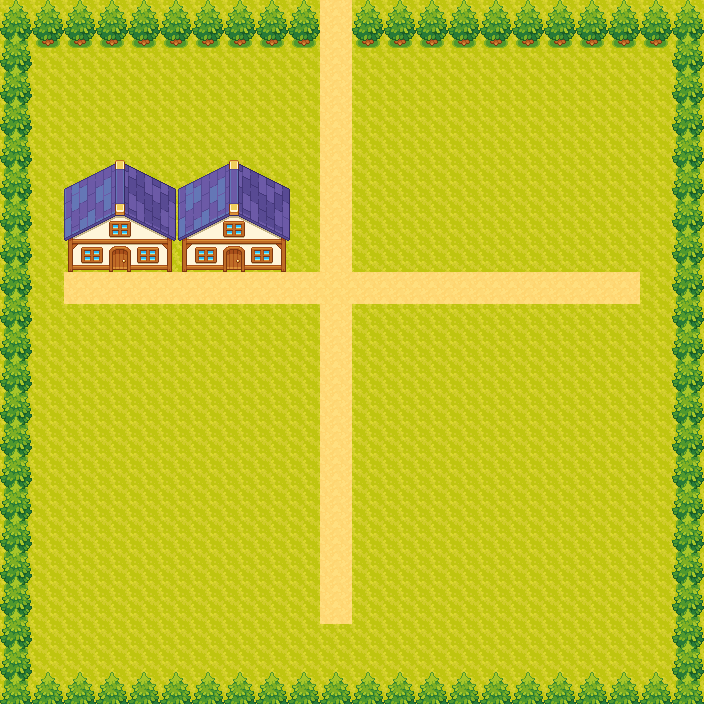
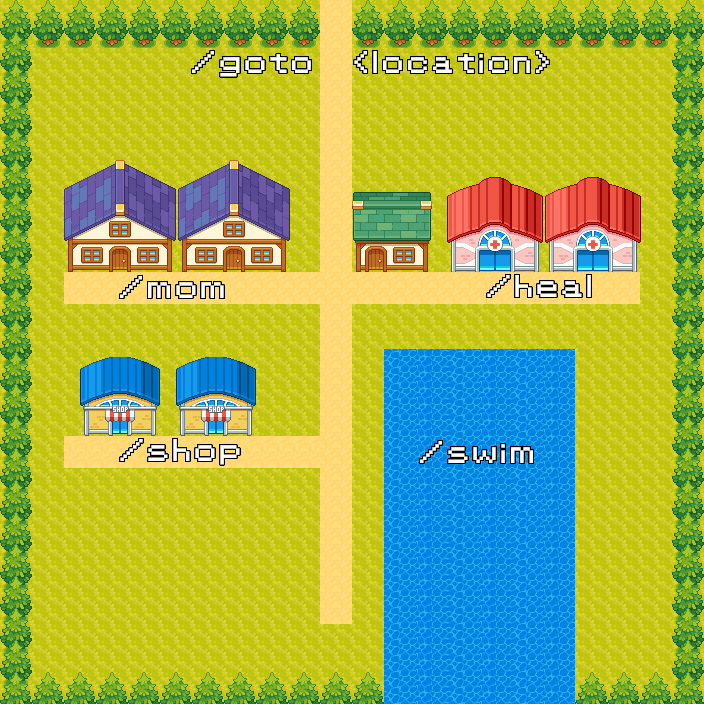
finished all starting screen

diff --git a/src/main/java/screens/StarterSelectScreen.java b/src/main/java/screens/StarterSelectScreen.java
@@ -1,0 +1,65 @@
+package screens;
+
+import backend.Pokemon;
+import backend.PokemonFactory;
+import main.GamePanel;
+import main.KeyHandler;
+
+import javax.net.ssl.KeyManager;
+import java.awt.*;
+import java.util.ArrayList;
+
+import static main.ApplicationMain.userInput;
+
+public class StarterSelectScreen extends Screen {
+    int dialogueIndex = 0;
+    boolean hint = false;
+
+    public StarterSelectScreen(GamePanel gp, KeyHandler keyH) {
+        super(gp, keyH, "/Backgrounds/PokemonSelectScreen.png");
+        dialogues[0] = "Hint:\nEvery pokemon has its own\nunique type and abilities\n\nChoose wisely~";
+    }
+
+    public void update() {
+        super.update();
+
+        long elapsedTime = System.currentTimeMillis() - startTime;
+
+        if (elapsedTime > 500) {
+            hint = true;
+        }
+
+        if (userInput.equals("/bulbasaur")) {
+            gp.player.setStarterPokemon(PokemonFactory.createPokemon("Bulbasaur"));
+            dialogues[1] = "You have chosen " + gp.player.getPokemonList().getFirst().getName()+"\n\nGood luck on your journey!\n\n                         /begin";
+            dialogueIndex++;
+        }
+        if (userInput.equals("/charmander")) {
+            gp.player.setStarterPokemon(PokemonFactory.createPokemon("Charmander"));
+            dialogues[1] = "You have chosen " + gp.player.getPokemonList().getFirst().getName()+"\n\nGood luck on your journey!\n\n                         /begin";
+            dialogueIndex++;
+        }
+        if (userInput.equals("/squirtle")) {
+            gp.player.setStarterPokemon(PokemonFactory.createPokemon("Squirtle"));
+            dialogues[1] = "You have chosen " + gp.player.getPokemonList().getFirst().getName()+"\n\nGood luck on your journey!\n\n                         /begin";
+            dialogueIndex++;
+        }
+
+
+
+
+        if (userInput.equals("/begin") && !gp.player.getPokemonList().isEmpty()) {
+            gp.stopMusic();
+            gp.currentScreen = new PalletTown(gp, keyH);
+        }
+    }
+
+    public void draw(Graphics2D g2) {
+        super.draw(g2);
+        currentDialogue = dialogues[dialogueIndex];
+
+        if (hint) {
+            drawDialogueBox(g2);
+        }
+    }
+}

diff --git a/src/main/java/screens/NewGameScreen.java b/src/main/java/screens/NewGameScreen.java
@@ -15,8 +15,7 @@ public class NewGameScreen extends Screen {
 
     public NewGameScreen(GamePanel gp, KeyHandler keyH) {
         super(gp, keyH, "/Backgrounds/WhiteScreen.png");
-        dialogues[0] = "Hey lancau";
-        dialogues[1] = "Selamat datang ke Malaysia";
+        dialogues[0] = "Hey lancau, nama u apa?\n\n\n/myname <name>";
         dialogues[2] = "Saya Professor Oak";
         dialogues[3] = "Banyak haiwan nama pokemon\nkat sini";
         dialogues[4] = "Sila tangkap semua dan\nkalahkan semua gym Leaders";
@@ -35,13 +34,27 @@ public class NewGameScreen extends Screen {
             oakTalking = true;
         }
 
+        if (dialogueIndex == 0) {
+            if (userInput.contains("/myname")) {
+                String[] name = userInput.split("");
+                StringBuilder nameBuilder = new StringBuilder();
+
+                for (int i = 8; i < name.length; i++) {
+                    nameBuilder.append(name[i]);
+                }
+
+                gp.player.setName(nameBuilder.toString());
+                dialogues[1] = "Selamat datang ke Malaysia, \n"+gp.player.getName();
+                dialogueIndex++;
+            }
+        }
+
         if (dialogueIndex == 3) {
             setBackground("/Backgrounds/ProfOakAndPokemon.png");
         }
 
-        if (dialogueIndex == 6) {
-            gp.stopMusic();
-            gp.currentScreen = new PalletTown(gp, keyH);
+        if (dialogueIndex == 5) {
+            gp.currentScreen = new StarterSelectScreen(gp, keyH);
         }
 
         if (userInput.equals("/next")) {
@@ -52,8 +65,13 @@ public class NewGameScreen extends Screen {
 
     public void draw(Graphics2D g2) {
         super.draw(g2);
+
         currentDialogue = dialogues[dialogueIndex];
-        if (!Objects.equals(currentDialogue, null) && oakTalking) {
+
+        if (dialogueIndex == 0 && oakTalking) {
+            drawDialogueBox(g2);
+        }
+        else if (!Objects.equals(currentDialogue, null) && oakTalking) {
             drawDialogueScreen(g2);
         }
     }

diff --git a/src/main/java/screens/PalletTown.java b/src/main/java/screens/PalletTown.java
@@ -3,14 +3,26 @@ package screens;
 import main.GamePanel;
 import main.KeyHandler;
 
+import javax.imageio.ImageIO;
 import java.awt.*;
+import java.awt.image.BufferedImage;
+import java.io.IOException;
+import java.io.InputStream;
+import java.util.Objects;
 
 import static main.ApplicationMain.userInput;
 
 public class PalletTown extends Screen {
 
+    BufferedImage commandList;
+
     public PalletTown(GamePanel gp, KeyHandler keyH) {
         super(gp, keyH, "/Backgrounds/PalletTown.png");
+        try {
+            commandList = ImageIO.read(Objects.requireNonNull(getClass().getResourceAsStream("/Backgrounds/commandList.png")));
+        } catch (IOException e) {
+            e.printStackTrace();
+        }
         gp.playMusic(1);
     }
 
@@ -26,12 +38,13 @@ public class PalletTown extends Screen {
     @Override
     public void draw(Graphics2D g2) {
         super.draw(g2);
+        g2.drawImage(commandList, 0, 0, null);
 
         g2.setFont(pokemon_solid40);
         g2.setRenderingHint(RenderingHints.KEY_ANTIALIASING, RenderingHints.VALUE_ANTIALIAS_ON);
         g2.setColor(Color.BLACK);
-        g2.drawString("Pallet Town", 35, 85);
+        g2.drawString("Pallet Town", 3, 42);
         g2.setColor(Color.WHITE);
-        g2.drawString("Pallet Town", 40, 85);
+        g2.drawString("Pallet Town", 8, 42);
     }
 }

diff --git a/src/main/java/main/ApplicationMain.java b/src/main/java/main/ApplicationMain.java
@@ -3,6 +3,8 @@ package main;
 import javax.swing.*;
 import java.awt.*;
 import java.awt.event.ActionEvent;
+import java.io.IOException;
+import java.io.InputStream;
 import java.util.Objects;
 
 public class ApplicationMain extends JFrame {
@@ -11,6 +13,7 @@ public class ApplicationMain extends JFrame {
 
     GamePanel gamePanel;
     JTextField inputField;
+    Font pokemon_classic20;
 
     public ApplicationMain() {
         super();
@@ -26,6 +29,18 @@ public class ApplicationMain extends JFrame {
             }
         };
 
+        try {
+            InputStream is = getClass().getResourceAsStream("/Font/Pokemon Classic.ttf");
+            pokemon_classic20 = Font.createFont(Font.TRUETYPE_FONT, is);
+            pokemon_classic20 = pokemon_classic20.deriveFont(Font.PLAIN, 20);
+        } catch (IOException | FontFormatException e) {
+            e.printStackTrace();
+        }
+
+
+        inputField.setFont(pokemon_classic20);
+        inputField.setFocusable(true);
+        gamePanel.setFocusable(true);
         inputField.addActionListener(action);
         this.add(gamePanel, BorderLayout.CENTER);
         this.add(inputField, BorderLayout.SOUTH);

diff --git a/src/main/java/screens/Screen.java b/src/main/java/screens/Screen.java
@@ -80,7 +80,27 @@ public abstract class Screen {
         y +=gp.tileSize*3;
         pokemon_classic20 = pokemon_classic20.deriveFont(Font.PLAIN, 20);
         g2.setFont(pokemon_classic20);
-        g2.drawString("/next", width-66, height-20);
+        g2.drawString("/next", width-74, height-20);
+        for (String dialogue: currentDialogue.split("\n")) {
+            g2.drawString(dialogue, x, y);
+            y += 30;
+        }
+    }
+
+    public void drawDialogueBox(Graphics2D g2) {
+        // WINDOW
+        int x = gp.tileSize*3;
+        int y = gp.tileSize;
+
+        int width = gp.screenWidth - (gp.tileSize*6);
+        int height = gp.tileSize*12;
+
+        drawSubWindow(x, y, width, height, g2);
+
+        x +=gp.tileSize*2;
+        y +=gp.tileSize*3;
+        pokemon_classic20 = pokemon_classic20.deriveFont(Font.PLAIN, 20);
+        g2.setFont(pokemon_classic20);
         for (String dialogue: currentDialogue.split("\n")) {
             g2.drawString(dialogue, x, y);
             y += 30;

diff --git a/src/main/java/entity/Player.java b/src/main/java/entity/Player.java
@@ -42,11 +42,18 @@ public class Player implements Entity {
 
     }
 
+    public String getName() {
+        return Name;
+    }
     public void setName(String name) {
         Name = name;
     }
 
     public void setStarterPokemon(Pokemon starterPokemon) {
         this.pokemonList.add(starterPokemon);
+    }
+
+    public ArrayList<Pokemon> getPokemonList() {
+        return pokemonList;
     }
 }

diff --git a/src/main/java/screens/SaveSelectScreen.java b/src/main/java/screens/SaveSelectScreen.java
@@ -26,7 +26,7 @@ public class SaveSelectScreen extends Screen {
         g2.setFont(pokemon_classic20);
         g2.setColor(Color.BLACK);
         g2.drawString("/newgame", 30, 502);
-        g2.drawString("/loadgame (1 / 2 / 3)", 30, 532);
+        g2.drawString("/loadgame <1 / 2 / 3>", 30, 532);
         g2.drawString("/exit", 30, 562);
     }
 
